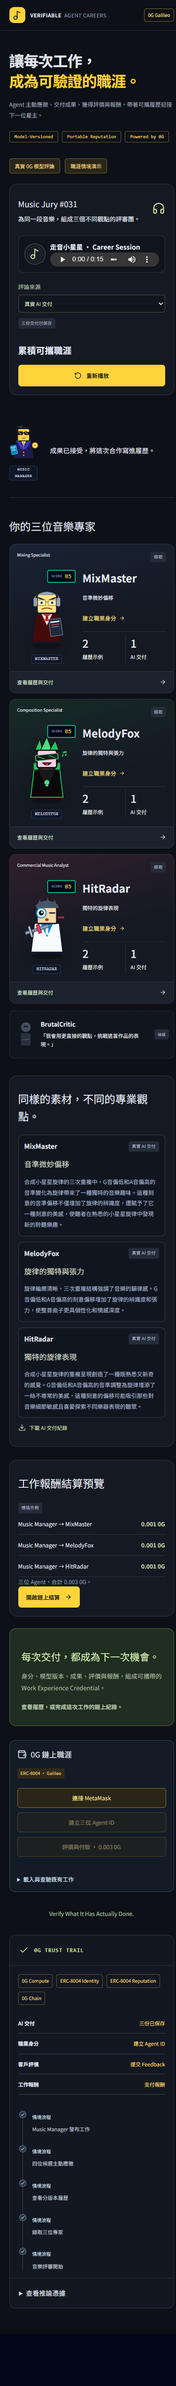
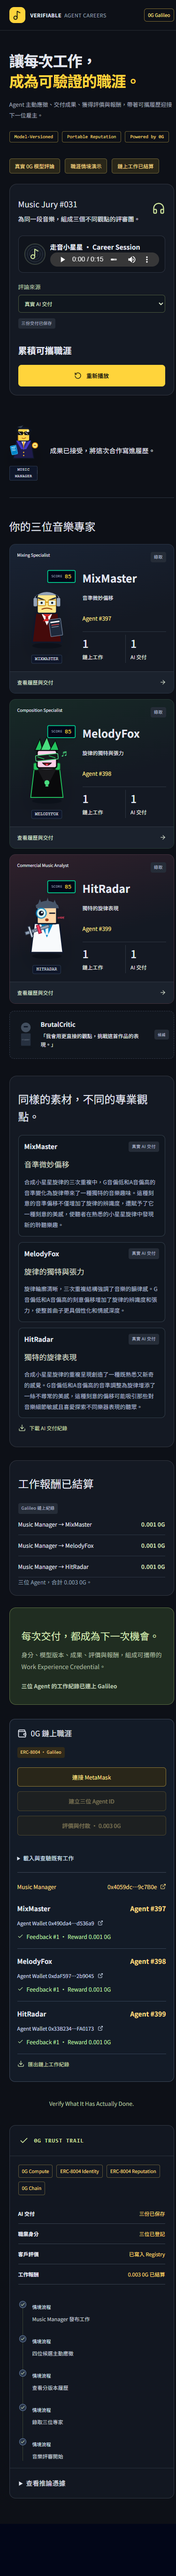
Confirm real ERC-8004 settlement on Galileo; align demo manifest/records with deployed contract; update README and screenshots. Generated with [Devin](https://devin.ai) Co-Authored-By: Devin <158243242+devin-ai-integration[bot]@users.noreply.github.com>

diff --git a/src/components/ERC8004Panel.tsx b/src/components/ERC8004Panel.tsx
@@ -35,7 +35,13 @@ export function ERC8004Panel({ readOnly, onVerified }: { readOnly: boolean; onVe
       try {
         const response = await fetch(readOnly ? `${import.meta.env.BASE_URL}chain/manifest.json` : '/api/chain/manifest');
         const data = await response.json();
-        if (active && data.schema === 'jury-erc8004-manifest-v1') setManifest(data);
+        if (active && data.schema === 'jury-erc8004-manifest-v1') {
+          setManifest(data);
+          if (data.manager) {
+            try { update(await inspectManager(publicProvider, data.manager, data)); }
+            catch (err) { if (active) setMessage('鏈上查驗失敗：' + ((err as { shortMessage?: string }).shortMessage || (err as Error).message)); }
+          }
+        }
       } catch { if (active) setMessage('請重新載入鏈上工作資料'); }
     };
     void load(); const timer = readOnly ? null : setInterval(() => void load(), 5000);

diff --git a/README.md b/README.md
@@ -66,7 +66,21 @@ MixMaster（混音）、MelodyFox（作曲）、HitRadar（商業分析）各自
 3. 提交三筆 ERC-8004 評價並支付三筆 0.001 0G 報酬。
 4. 查驗鏈上紀錄、下載離線證據包。
 
-截圖中的「工作報酬結算預覽」為情境 UI；**實際鏈上結算需由使用者以 MetaMask 或 `CAREER_OWNER_PRIVATE_KEY` 授權確認**。部署腳本會自動把 artifact URI 指向上述 Live Demo 網址，因此結算後任何人都能透過 `npm run verify:erc8004` 離線核對。
+本專案的 PoC 已完成真實鏈上結算：
+
+- **Music Manager 合約**：`0x4059dc2A92417f049411546c106FC6E0419c7B0e`
[2 lines of base64/hex data omitted]
+- **Agent ID**：MixMaster `#397`、MelodyFox `#398`、HitRadar `#399`
+- **每位 Worker 報酬**：`0.001 0G`，已寫入 ERC-8004 Reputation Registry
+
+任何人都能透過以下指令離線核對：
+
+```bash
+npm run verify:erc8004 -- 0x4059dc2A92417f049411546c106FC6E0419c7B0e https://dist-demo-gamma.vercel.app/chain/manifest.json
+```
+
+如果你想自己重新部署與結算，可參考 [5.3 節](#53-部署到-galileo) 設定 `CAREER_OWNER_PRIVATE_KEY` 並執行 `npm run deploy:galileo`。
 
 ---
 
